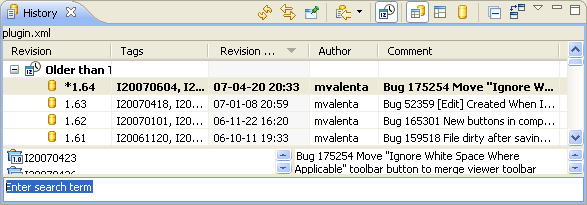
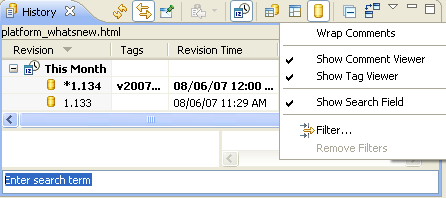
Updated what's new screen shots

diff --git a/bundles/org.eclipse.platform.doc.user/whatsNew/platform_whatsnew.html b/bundles/org.eclipse.platform.doc.user/whatsNew/platform_whatsnew.html
@@ -485,7 +485,8 @@ document in the plug-in developer's guide.
     <td><p align="right"><b>History view search<br>
       </b></p></td>
     <td>The History view has a new search field that allows you to filter the history
-    based on text in the author, comment, revision, and tags. 
+    based on text in the author, comment, revision, and tags. The field is not visible by
+    default but can be enabled from the view menu.
       <p> <img alt="History Search Field" src="images/historysearch.png"></p></td>
   </tr>
 
